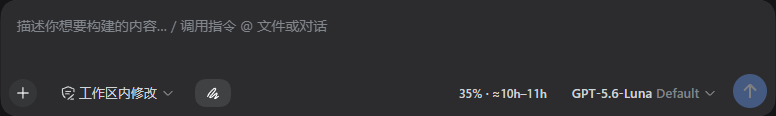
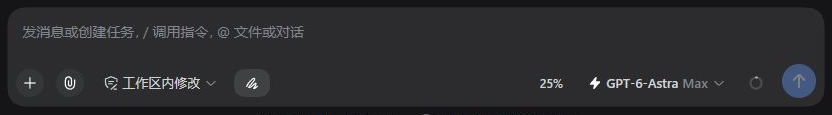
docs: show Astra Max Fast in composer screenshot (#45)

diff --git a/README.en.md b/README.en.md
@@ -142,8 +142,10 @@ When the official model catalog exposes GPT-6 Astra, Standard preserves the cata
 ### Composer quota
 
 <p align="center">
-  <img src="https://raw.githubusercontent.com/WSL043/dsh-codex-subscription/main/docs/assets/composer-quota.png" width="800" alt="Codex quota inside the composer">
+  <img src="https://raw.githubusercontent.com/WSL043/dsh-codex-subscription/main/docs/assets/composer-quota.png" width="800" alt="Live DSH composer with GPT-6-Astra, Max reasoning, Fast mode, and remaining quota">
 </p>
+
+Live example: GPT-6-Astra with Max (the highest reasoning level) and Fast mode (lightning icon), with remaining quota visible on the left.
 
 Choose Off, Percent, Progress bar, or Beta Runway under Account & preferences. When a five-hour window exists, the composer shows that window only; the popover retains all windows. A weekly-only display omits the week label and uses compact durations such as `36% · ≈10h–12h`.
 

diff --git a/README.md b/README.md
@@ -143,8 +143,10 @@ dsh --profile web --dump-config
 ### 输入框额度
 
 <p align="center">
-  <img src="https://raw.githubusercontent.com/WSL043/dsh-codex-subscription/main/docs/assets/composer-quota.png" width="800" alt="中文 DSH 输入框内的 Codex 剩余额度和紧凑续航预测">
+  <img src="https://raw.githubusercontent.com/WSL043/dsh-codex-subscription/main/docs/assets/composer-quota.png" width="800" alt="DSH 实机输入框：GPT-6-Astra、Max 推理、高速模式和剩余额度">
 </p>
+
+实机示例：GPT-6-Astra · Max（最高推理档）· 高速模式（闪电标识），左侧直接显示剩余额度。
 
 可在“账号与偏好”选择关闭、百分比、进度条或 Beta 续航预测。存在 5 小时额度时，输入框只显示短窗口；每周额度等完整信息留在悬浮详情。仅有周额度时省略“周”字，预测采用 `36% · ≈10h–12h` 这样的紧凑格式。
 
